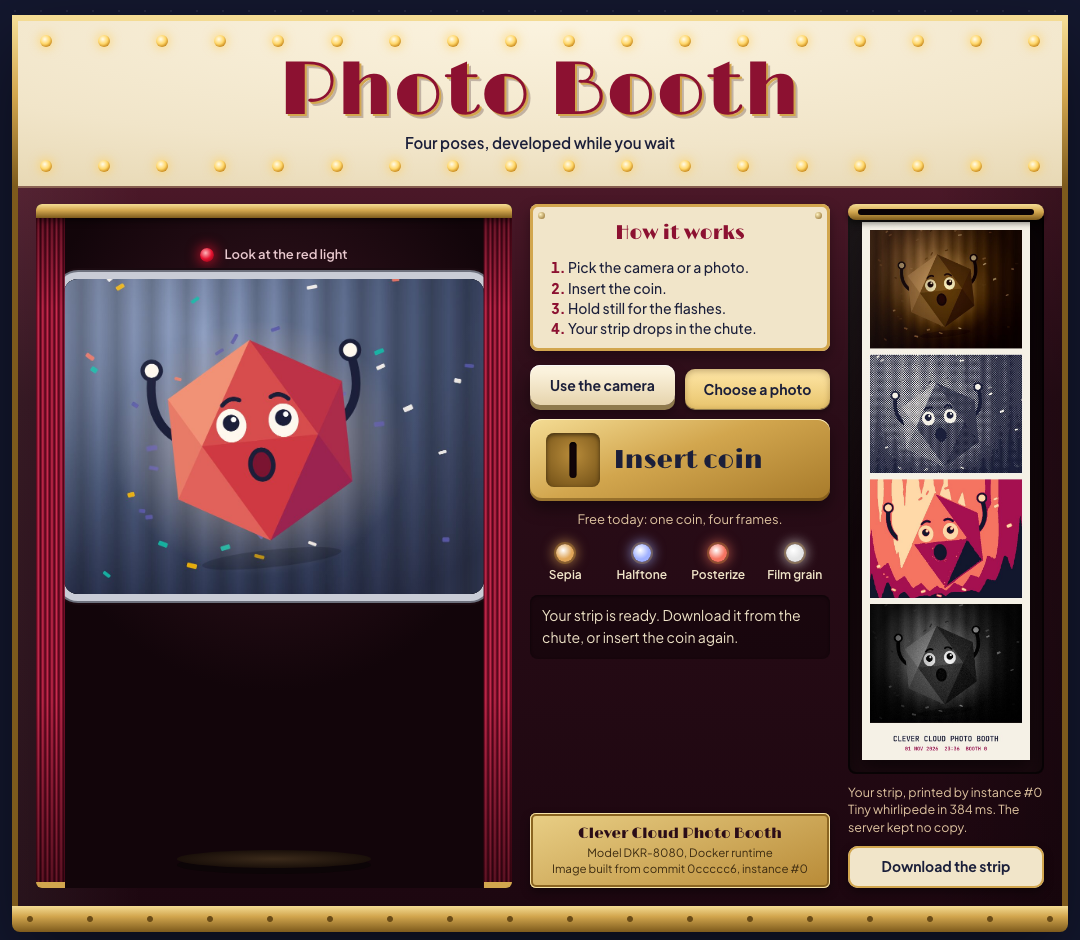
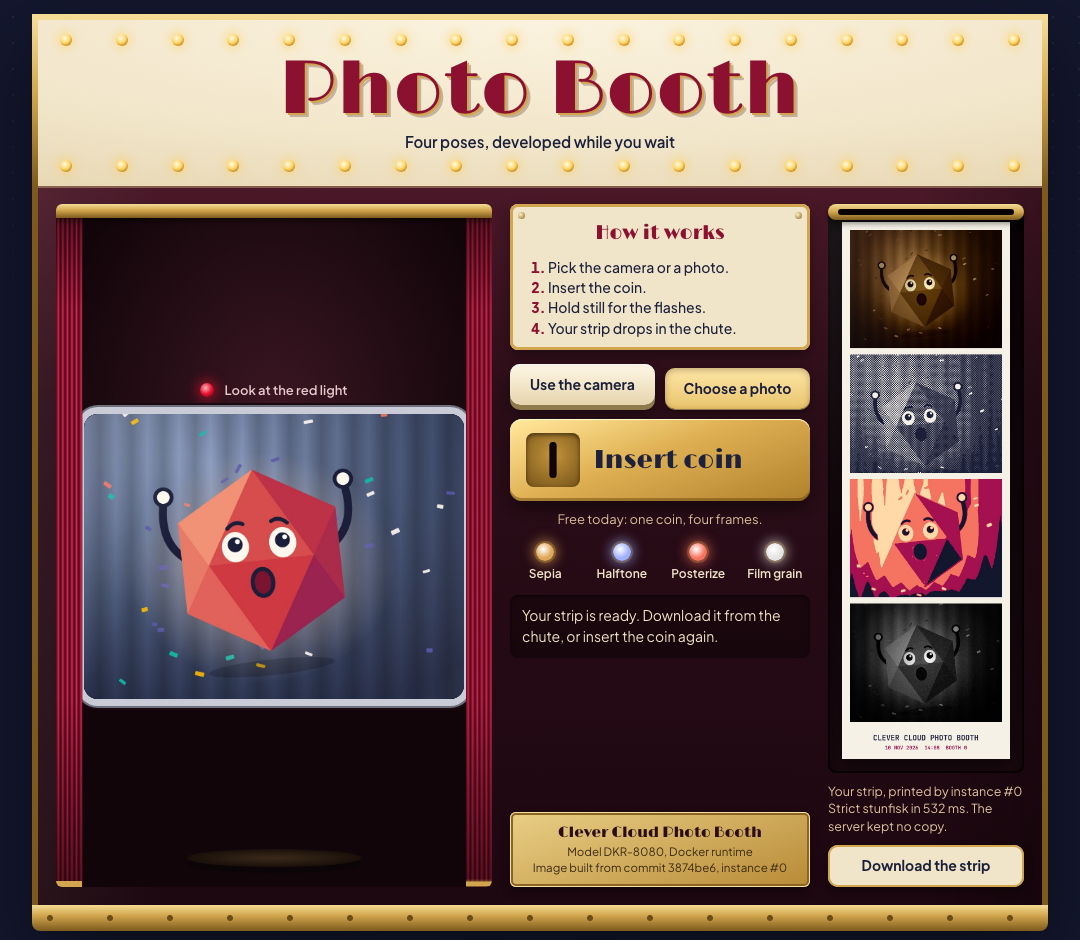
Tour and screenshots recorded live on Clever Cloud, hosted demo retired

diff --git a/README.md b/README.md
@@ -2,7 +2,7 @@
 
 > A vintage photo booth in the browser. Step behind the red curtain, take four poses with your webcam (or pick one photo), insert the coin, and a Go server prints a 4-frame strip in sepia, halftone, posterize and film grain. The printing is done by **ImageMagick 7, installed in the app's own Docker image**: the **Clever Cloud Docker runtime** builds the multi-stage Dockerfile and runs it as a non-root user. The strip comes back to you; the server keeps nothing. Dressed in the **Clever Brand Kit**, with the Clever Cloud Academy certification in the footer.
 
-![The photo booth run locally, outside the container (the Go server from the Dockerfile compiled and started directly, with a local ImageMagick 7): the red curtain opens on a chosen photo, the coin is inserted, the countdown runs, the four lamps light up and a new 4-frame strip printed by ImageMagick drops in the chute](docs/tour.gif)
+![The photo booth live on Clever Cloud, in the image built from the Dockerfile by the Docker runtime: the red curtain opens on a chosen photo, the coin is inserted, the countdown runs, the four lamps light up and a new 4-frame strip printed by ImageMagick drops in the chute](docs/tour.gif)
 
 ![The photo booth, a strip just printed](docs/screenshot-action.png)
 
